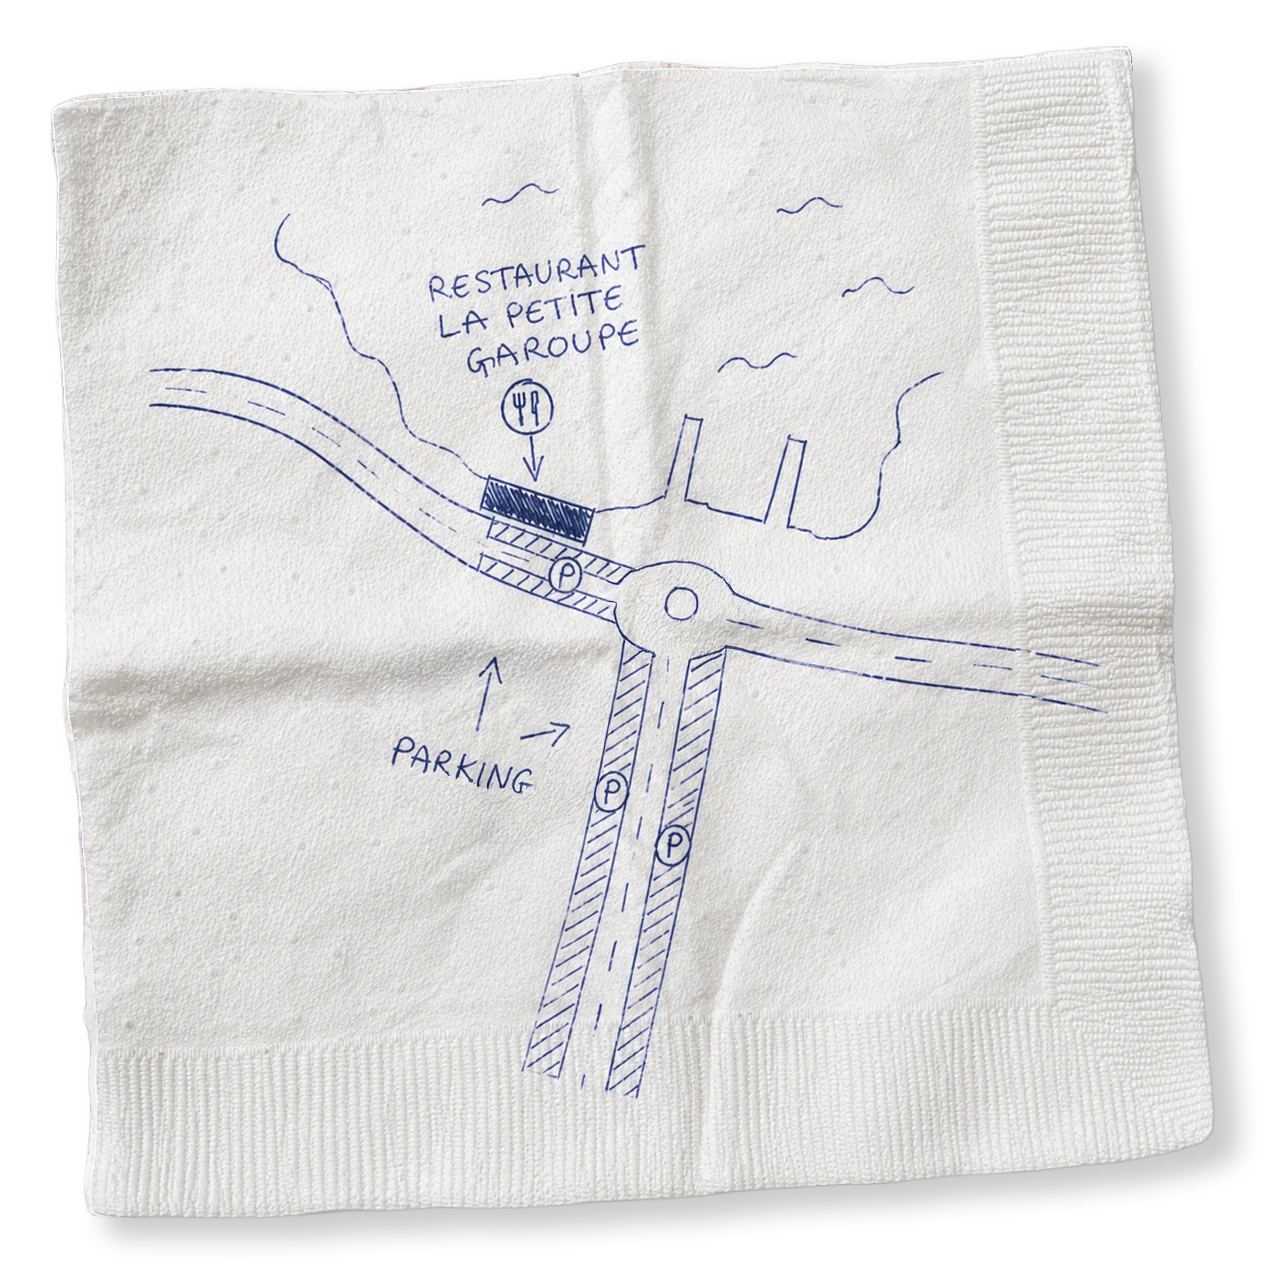
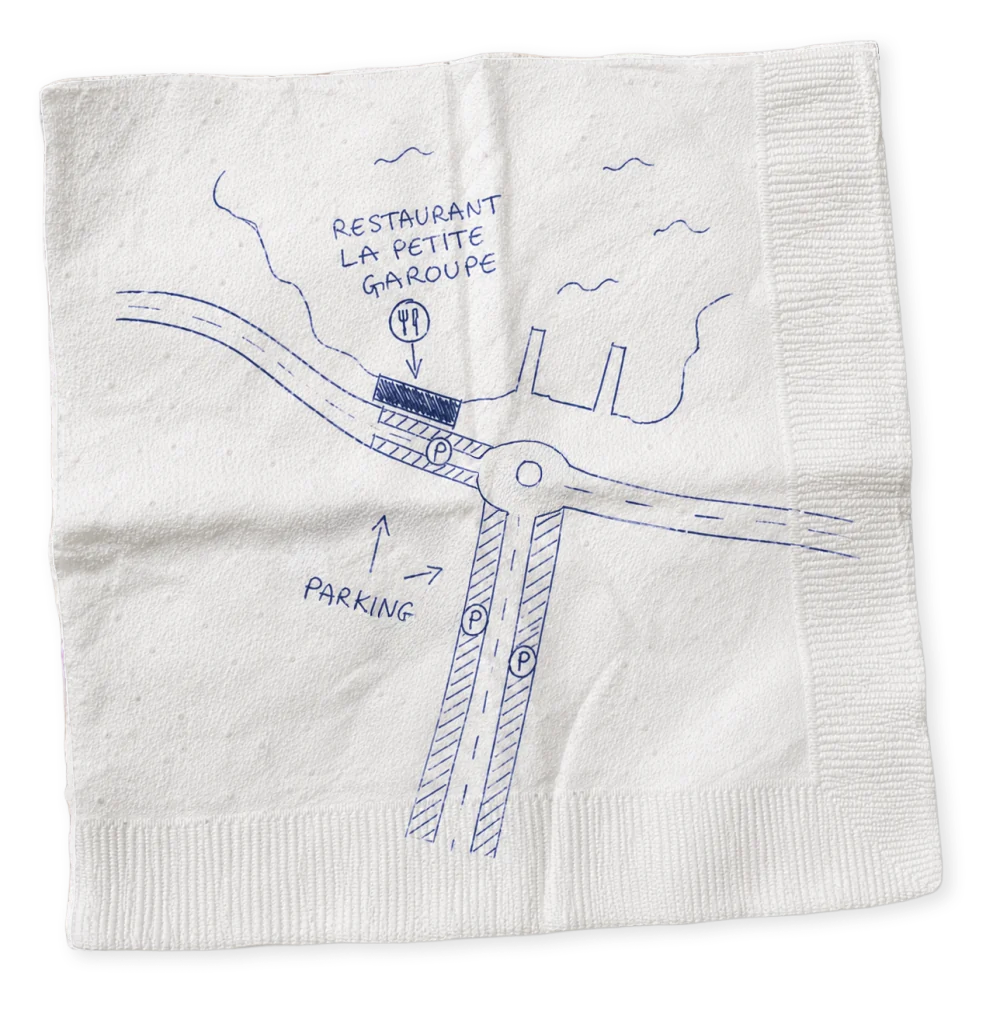
Refine mobile hero and contact section

diff --git a/src/site/styles-layout.css b/src/site/styles-layout.css
@@ -1160,13 +1160,14 @@
 .v6-shell .v5-contact-media .v3-feature-image img {
   aspect-ratio: 1 / 1;
   height: 100%;
+  object-fit: contain;
 }
 
 @media (min-width: 960px) {
   .v6-shell .v5-contact-media {
     width: 100%;
-    max-width: none;
-    justify-self: stretch;
+    max-width: clamp(23rem, 28vw, 25.5rem);
+    justify-self: end;
   }
 
   .v6-shell .v6-menu-group__title {
@@ -2101,6 +2102,10 @@
     margin-top: var(--v6-mobile-action-gap);
   }
 
+  .v6-shell .v6-access-actions {
+    justify-content: center;
+  }
+
   .v6-shell .v5-contact-media {
     display: none;
   }
@@ -2111,6 +2116,8 @@
 
   .v6-shell #access .v3-contact-copy {
     gap: var(--v6-mobile-content-gap);
+    justify-items: center;
+    text-align: center;
   }
 
   .v6-shell .v6-contact-title {
@@ -2441,10 +2448,12 @@
 
 @media (max-width: 900px) {
   .v6-shell .v3-hero {
+    --v6-mobile-hero-height: calc(var(--v6-visual-viewport-height, 100svh) - var(--v6-mobile-header-height));
     display: grid;
     align-items: start;
     min-height: auto;
-    padding: 0 0 clamp(1.6rem, 5vw, 2.3rem);
+    max-height: var(--v6-mobile-hero-height);
+    padding: 0 0 clamp(0.85rem, 3vw, 1.55rem);
     background: var(--bg);
     overflow: visible;
   }
@@ -2457,10 +2466,10 @@
     display: block;
     position: relative;
     inset: auto;
-    width: min(96vw, 36rem);
+    width: min(var(--v6-mobile-hero-image-width, 86vw), 32.5rem);
     height: auto;
     aspect-ratio: 1200 / 791;
-    margin: clamp(-4rem, -14vw, -1.8rem) auto clamp(1rem, 3.5vw, 1.35rem);
+    margin: clamp(-4rem, -14vw, -1.8rem) auto clamp(0.65rem, 2.6vw, 1.1rem);
     object-fit: contain;
     object-position: center;
     background: var(--bg);
@@ -2482,7 +2491,7 @@
     max-width: 12.2ch;
     margin: 0 auto;
     color: var(--primary);
-    font-size: clamp(4.25rem, 18vw, 6.3rem);
+    font-size: clamp(3.75rem, var(--v6-mobile-hero-title-size, min(18vw, 10.6svh)), 6.3rem);
     font-weight: 400;
     line-height: 0.74;
     letter-spacing: 0;
@@ -2506,7 +2515,7 @@
 
   .v6-shell .v3-hero__content .v3-button-row {
     justify-content: center;
-    margin-top: clamp(1.4rem, 5vw, 2rem);
+    margin-top: clamp(0.85rem, min(4vw, 2.8svh), 1.55rem);
   }
 
   .v6-shell .v3-hero .v6-reserve__button.v3-button {
@@ -2527,6 +2536,55 @@
 
   .v6-shell .v6-hero-directions {
     display: none;
+  }
+}
+
+@media (max-width: 900px) and (max-height: 700px) {
+  .v6-shell .v3-hero__image--mobile {
+    margin-top: clamp(-4.8rem, -16vw, -2.2rem);
+    margin-bottom: clamp(0.45rem, 1.7vw, 0.75rem);
+  }
+
+  .v6-shell .v3-hero__content .v3-hero__headline {
+    font-size: clamp(3.2rem, var(--v6-mobile-hero-title-size, min(16vw, 9.6svh)), 5.1rem);
+  }
+
+  .v6-shell .v3-hero__headline-sub {
+    margin-top: 0.36em;
+  }
+
+  .v6-shell .v3-hero__content .v3-button-row {
+    margin-top: clamp(0.65rem, 2.5vw, 1rem);
+  }
+}
+
+@media (max-width: 360px) and (max-height: 520px) {
+  .v6-shell .v3-hero__image--mobile {
+    width: min(78vw, var(--v6-mobile-hero-image-width, 78vw));
+    margin-top: clamp(-5rem, -20vw, -3rem);
+    margin-bottom: 0.35rem;
+  }
+
+  .v6-shell .v3-hero__content .v3-hero__headline {
+    font-size: clamp(2.85rem, 15vw, 3.1rem);
+  }
+
+  .v6-shell .v3-hero__headline-sub {
+    margin-top: 0.32em;
+  }
+
+  .v6-shell .v3-hero__content .v3-button-row {
+    flex-wrap: nowrap;
+    gap: 0.45rem;
+    margin-top: 0.5rem;
+  }
+
+  .v6-shell .v3-hero .v6-reserve__button.v3-button,
+  .v6-shell .v3-hero .v6-hero-menu-button {
+    min-height: 2.7rem;
+    height: 2.7rem;
+    padding: 0.78rem 0.9rem;
+    font-size: 0.82rem;
   }
 }
 

diff --git a/src/site/SiteLayout.jsx b/src/site/SiteLayout.jsx
@@ -209,6 +209,44 @@ function SiteLayoutInner({ lang, locale, basePath }) {
   }, [closeAll, location.pathname]);
 
   useEffect(() => {
+    if (typeof window === 'undefined') return undefined;
+
+    const root = document.documentElement;
+
+    function updateVisualViewportHeight() {
+      const viewport = window.visualViewport;
+      const height = viewport?.height ?? window.innerHeight;
+      const width = viewport?.width ?? window.innerWidth;
+      const mobileHeroTitleSize =
+        height <= 700
+          ? Math.min(Math.max(width * 0.16, 51), 82)
+          : Math.min(Math.max(width * 0.18, 60), 101);
+      const mobileHeroImageWidth = Math.min(width * 0.86, 520);
+
+      root.style.setProperty('--v6-visual-viewport-height', `${height}px`);
+      root.style.setProperty('--v6-mobile-hero-title-size', `${mobileHeroTitleSize}px`);
+      root.style.setProperty('--v6-mobile-hero-image-width', `${mobileHeroImageWidth}px`);
+    }
+
+    updateVisualViewportHeight();
+
+    window.addEventListener('resize', updateVisualViewportHeight);
+    window.addEventListener('orientationchange', updateVisualViewportHeight);
+    window.visualViewport?.addEventListener('resize', updateVisualViewportHeight);
+    window.visualViewport?.addEventListener('scroll', updateVisualViewportHeight);
+
+    return () => {
+      window.removeEventListener('resize', updateVisualViewportHeight);
+      window.removeEventListener('orientationchange', updateVisualViewportHeight);
+      window.visualViewport?.removeEventListener('resize', updateVisualViewportHeight);
+      window.visualViewport?.removeEventListener('scroll', updateVisualViewportHeight);
+      root.style.removeProperty('--v6-visual-viewport-height');
+      root.style.removeProperty('--v6-mobile-hero-title-size');
+      root.style.removeProperty('--v6-mobile-hero-image-width');
+    };
+  }, []);
+
+  useEffect(() => {
     function handlePointerDown(event) {
       if (
         menuOpen &&

diff --git a/src/content/locales/fr/home.js b/src/content/locales/fr/home.js
@@ -3,7 +3,7 @@ export const homePage = {
     "title": "La Petite\nGaroupe",
     "subtitle": "Restaurant de plage\nau Cap d’Antibes.",
     "seoHeading": "La Petite Garoupe, restaurant méditerranéen et pizzas au feu de bois dans le Cap d’Antibes",
-    "text": "Une cuisine ensoleillée,\nles pieds dans le sable,\nface à la Méditerranée."
+    "text": "Une cuisine ensoleillée,\nface à la Méditerranée."
   },
   "cuisine": {
     "eyebrow": "Le lieu",